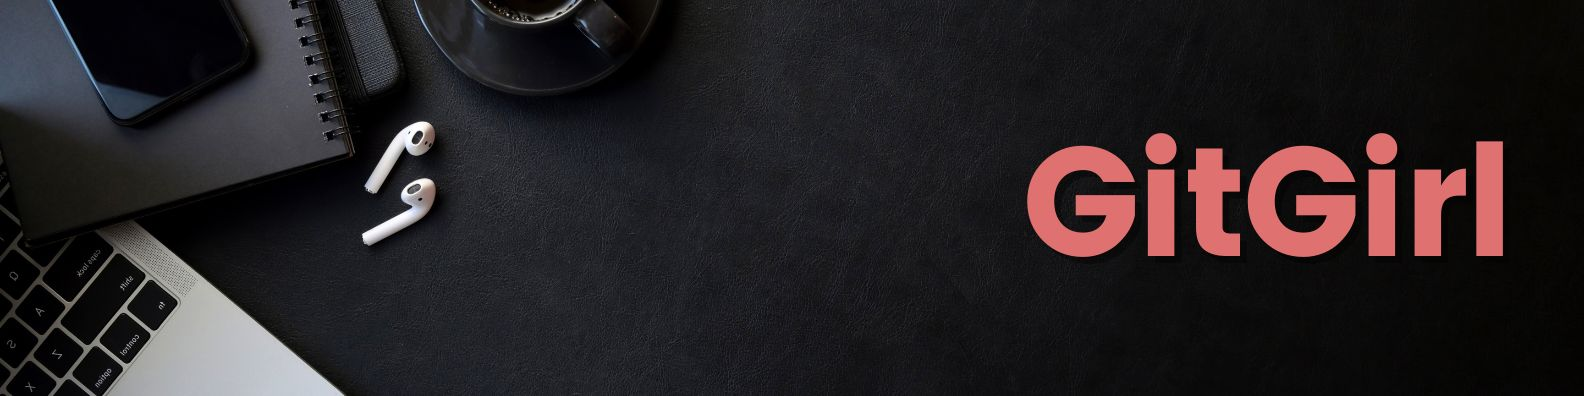
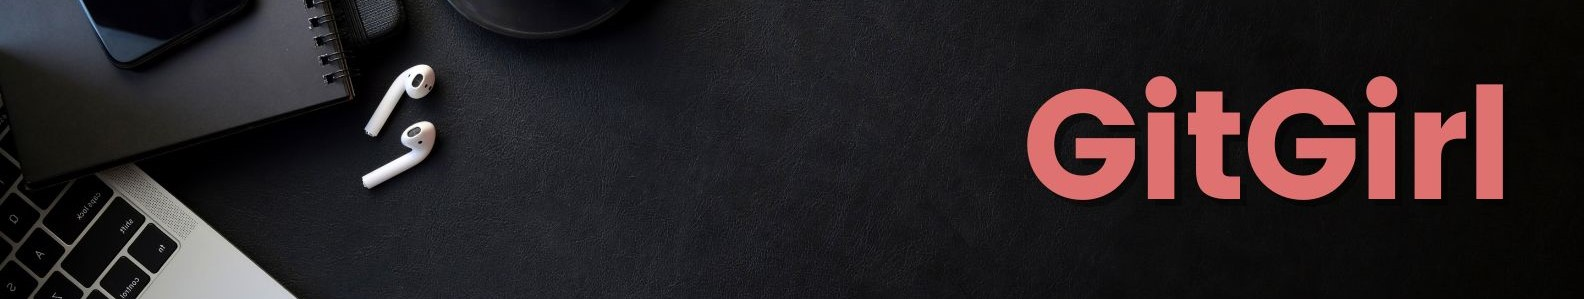
spaceing on main complete

diff --git a/ghi/src/components/Home.jsx b/ghi/src/components/Home.jsx
@@ -11,17 +11,15 @@ function Home() {
                         className="d-block user-select-none "
                         src={banner_3}
                         width="100%"
-                        height="100%"
-                    ></img>
+                        height="50%"
+                    />
                 </h1>
                 <div className="row">
                     <div className="col-md-8">
                         <div className="card-body">
-                            <h1 className="card-title">
-                                Branch Out. Commit. Push Forward.
-                            </h1>
-                            <h6 className="card-subtitle text-muted"></h6>
-                            <p className="card-text">
+                            <h1 className="card-title">Mission Statement</h1>
+                            <div></div>
+                            <p className="card-text " style={{ width: '75%' }}>
                                 GitGirl exists to redefine the tech landscape
                                 into a realm where women and femme-presenting
                                 individuals not only belong but flourish and
@@ -35,7 +33,7 @@ function Home() {
                                 innovation, and career paths are coded with
                                 success.
                             </p>
-                            <p className="card-text">
+                            <p className="card-text" style={{ width: '75%' }}>
                                 We commit to creating an inclusive environment
                                 by connecting talents with opportunities. We aim
                                 to push the boundaries of what is possible,
@@ -43,32 +41,22 @@ function Home() {
                                 their goals, and advance in their careers and
                                 aspirations.
                             </p>
-                            <p className="card-text">
-                                GitGirl is more than just a job platform; it is a
-                                movement towards a diverse, equitable, and
-                                innovative tech industry where every girl has
-                                the power to innovate, elevate, and execute her
-                                vision. Together, we are not just coding; we are
-                                transforming the tech industry one GitGirl at a
-                                time.
-                            </p>
-                        </div>
-                        <div className="row">
+                            <h2 className="card-subtitle text-muted">
+                                Branch Out. Commit. Push Forward.
+                            </h2>
                             <div className="d-flex m-3">
-                                <p>
-                                    <button
-                                        type="button"
-                                        className="btn btn-secondary me-5"
-                                    >
-                                        Sign In
-                                    </button>
-                                    <button
-                                        type="button"
-                                        className="btn btn-outline-secondary"
-                                    >
-                                        Sign up
-                                    </button>
-                                </p>
+                                <button
+                                    type="button"
+                                    className="btn btn-secondary me-5"
+                                >
+                                    Sign In
+                                </button>
+                                <button
+                                    type="button"
+                                    className="btn btn-outline-secondary"
+                                >
+                                    Sign up
+                                </button>
                             </div>
                         </div>
                     </div>
@@ -78,22 +66,37 @@ function Home() {
                             src="https://images.pexels.com/photos/3861958/pexels-photo-3861958.jpeg?auto=compress&cs=tinysrgb&w=1260&h=750&dpr=1"
                             width="100%"
                             height="auto"
-                        ></img>
+                        />
                     </div>
                 </div>
             </div>
-            <div className="card text-white bg-primary mb-0 d-flex justify-content-around">
-                <div className="card-body">
-                    <div className="row">
-                        <img
-                            className="d-block user-select-none col-md-4"
-                            src="https://images.unsplash.com/photo-1573165067541-4cd6d9837902?q=80&w=2069&auto=format&fit=crop&ixlib=rb-4.0.3&ixid=M3wxMjA3fDB8MHxwaG90by1wYWdlfHx8fGVufDB8fHx8fA%3D%3D"
-                            width="50%"
-                            height="auto"
-                        ></img>
-                        <div className="col-md-8 text-end">
+            <div className="row">
+                <div className="col">
+                    <div className="card text-white bg-primary mb-3 d-flex justify-content-around">
+                        <div
+                            className="card-body"
+                            style={{
+                                display: 'flex',
+                                alignItems: 'center',
+                                justifyContent: 'center',
+                            }}
+                        >
+                            <img
+                                className="d-block user-select-none"
+                                src="https://images.unsplash.com/photo-1573165067541-4cd6d9837902?q=80&w=2069&auto=format&fit=crop&ixlib=rb-4.0.3&ixid=M3wxMjA3fDB8MHxwaG90by1wYWdlfHx8fGVufDB8fHx8fA%3D%3D"
+                                width="63.2%"
+                                height="auto"
+                            />
+                        </div>
+                    </div>
+                </div>
+                <div className="col">
+                    <div
+                        className="card text-white bg-primary mb-0"
+                        style={{ padding: '30px' }}
+                    >
+                        <div className="card-body">
                             <h1 className="card-title ">GitGirls</h1>
-                            <h6 className="card-subtitle mb-2 text-muted"></h6>
                             <p className="card-text">
                                 Targeted Opportunities: GitGirl curates jobs,
                                 internships, and apprenticeships with employers
@@ -133,12 +136,14 @@ function Home() {
                     </div>
                 </div>
             </div>
-            <div className="card text-white bg-secondary mb-0 d-flex justify-content-around">
-                <div className="card-body">
-                    <div className="row">
-                        <div className="col-md-8">
+            <div className="row">
+                <div className="col">
+                    <div
+                        className="card text-white bg-secondary mb-3 d-flex justify-content-around"
+                        style={{ padding: '50px' }}
+                    >
+                        <div className="card-body">
                             <h1 className="card-title">Employers</h1>
-                            <h6 className="card-subtitle mb-2 text-muted"></h6>
                             <p className="card-text">
                                 Untapped Potential: GitGirl gives employers
                                 access to a pool of highly qualified women and
@@ -159,13 +164,24 @@ function Home() {
                                 attract top talent who value inclusivity.
                             </p>
                         </div>
-                        <div className="col-md-4">
+                    </div>
+                </div>
+                <div className="col">
+                    <div className="card text-white bg-secondary mb-0">
+                        <div
+                            className="card-body"
+                            style={{
+                                display: 'flex',
+                                alignItems: 'center',
+                                justifyContent: 'center',
+                            }}
+                        >
                             <img
-                                className="d-block shadow-sm user-select-none"
+                                className="d-block user-select-none"
                                 src="https://images.unsplash.com/photo-1573165265437-f5e267bb3db6?q=80&w=2069&auto=format&fit=crop&ixlib=rb-4.0.3&ixid=M3wxMjA3fDB8MHxwaG90by1wYWdlfHx8fGVufDB8fHx8fA%3D%3D"
-                                width="100%"
+                                width="60.9%"
                                 height="auto"
-                            ></img>
+                            />
                         </div>
                     </div>
                 </div>
